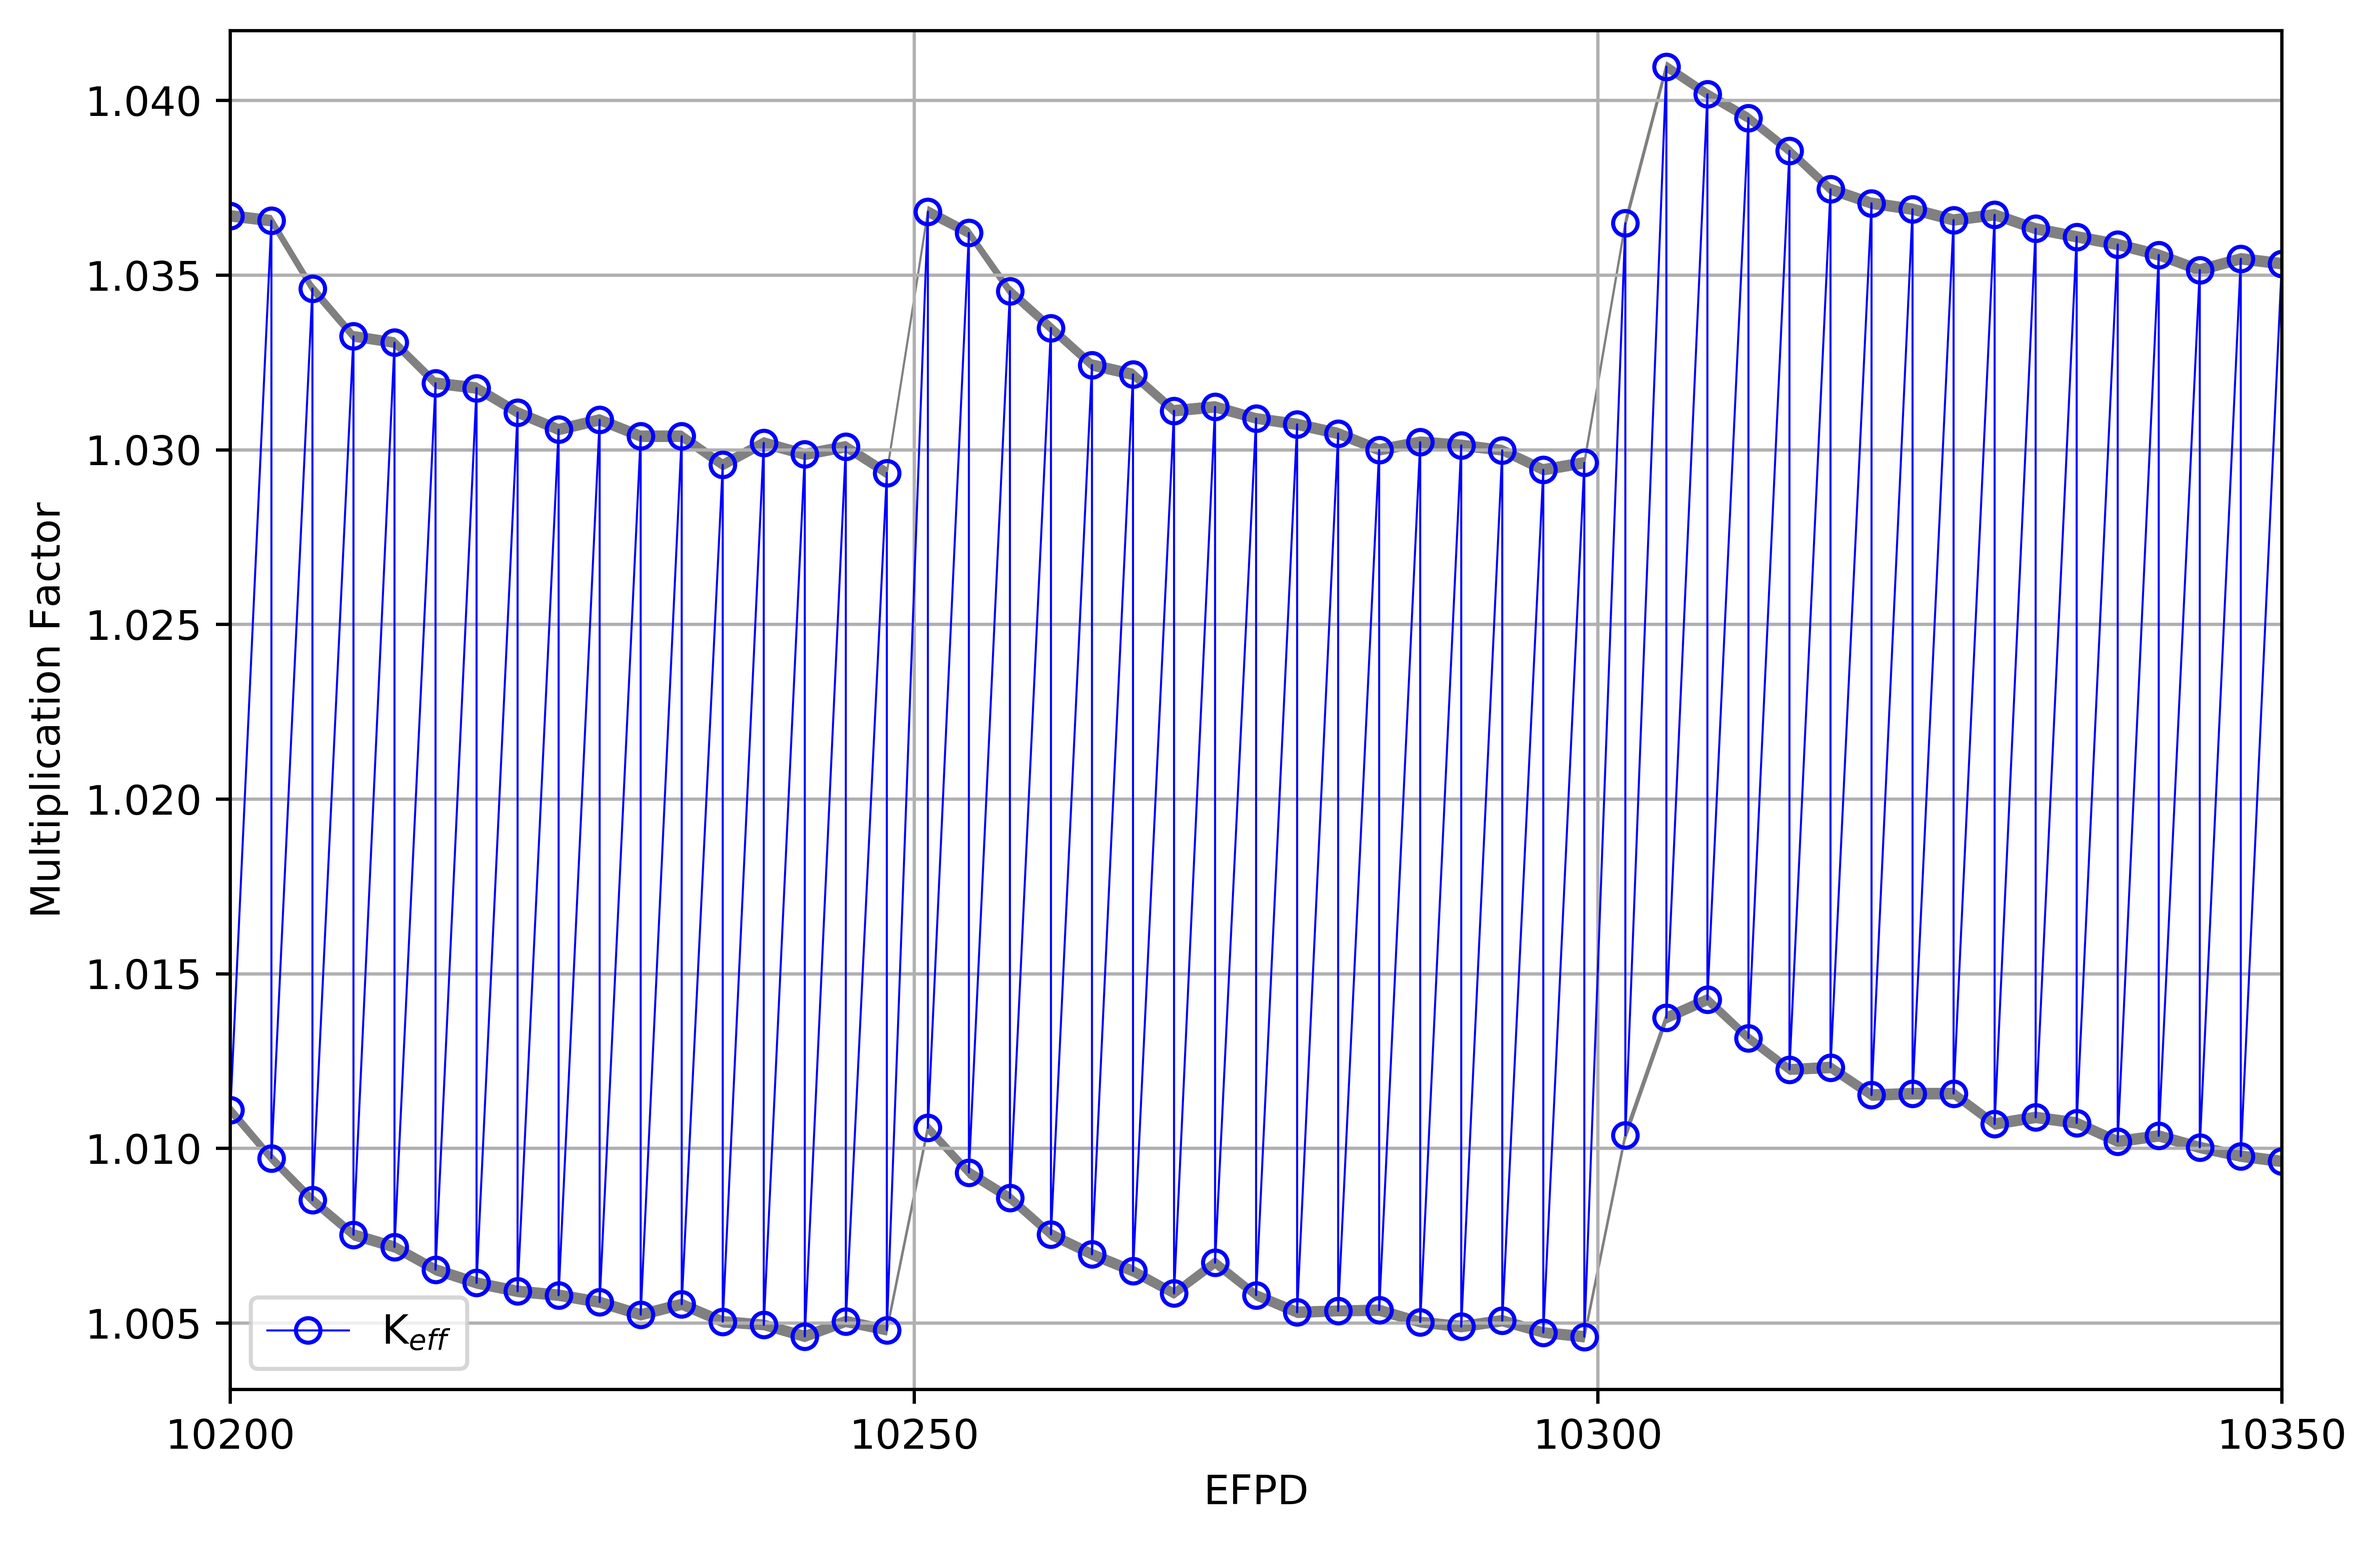
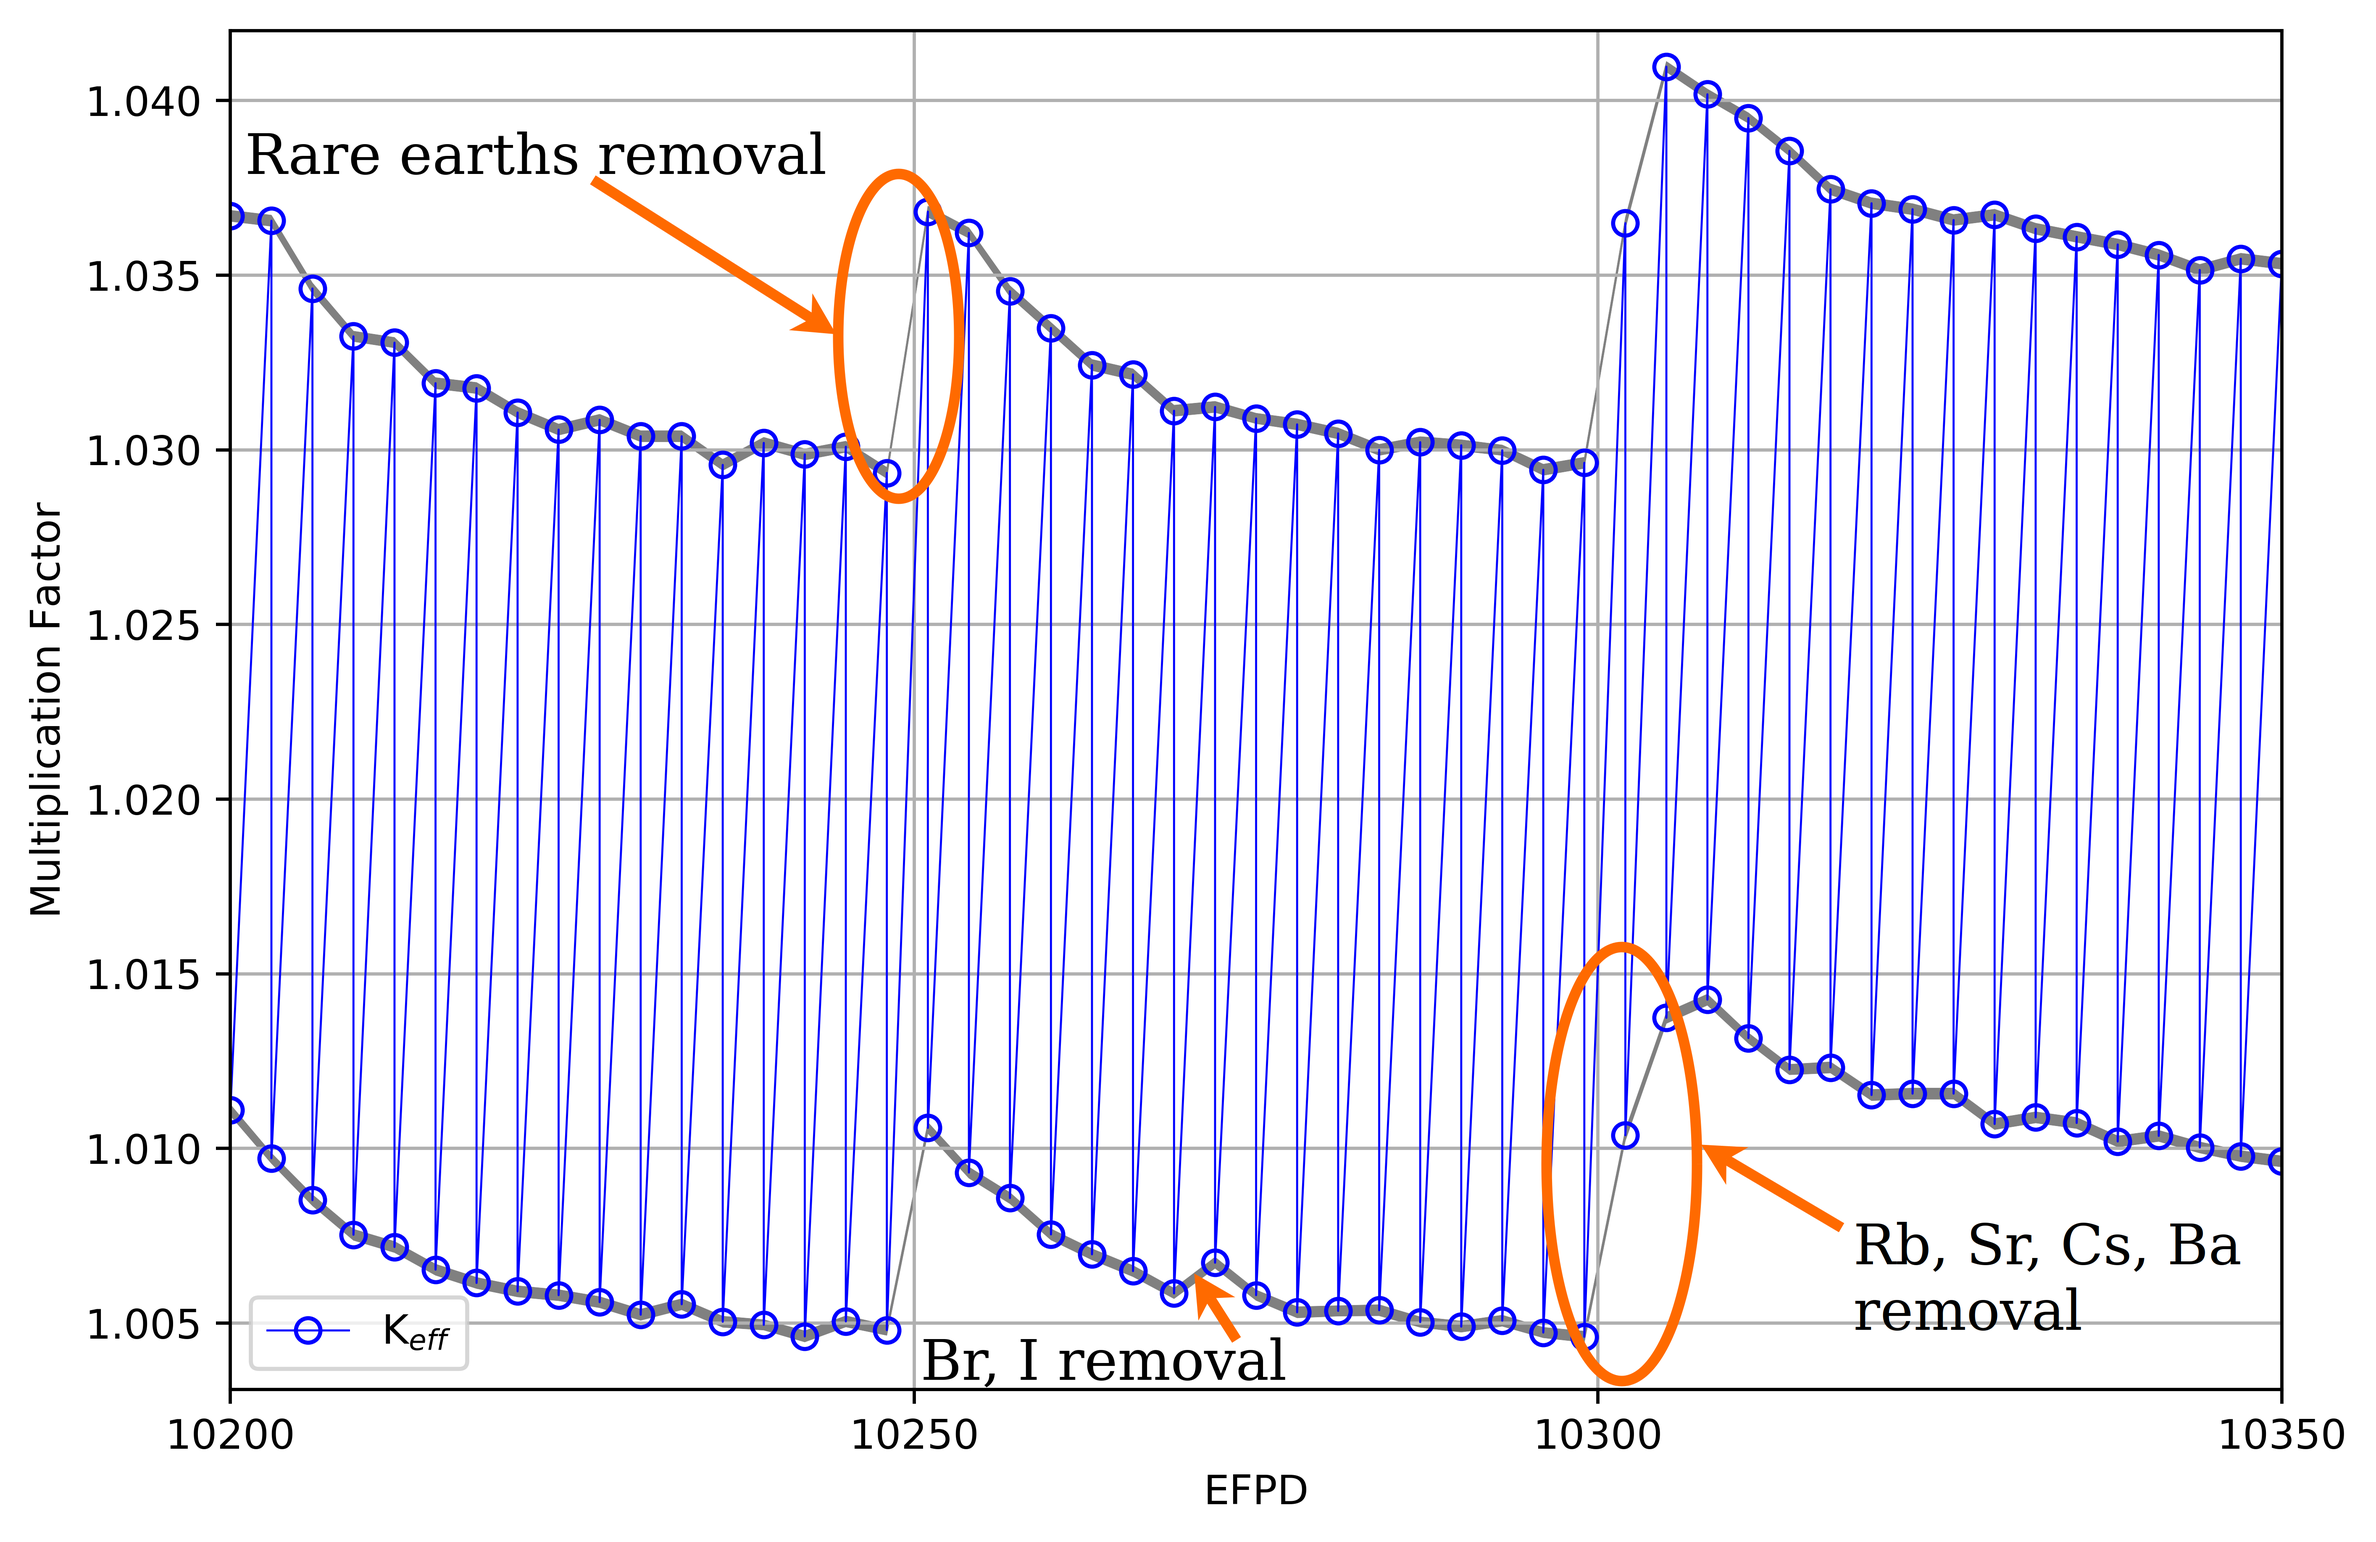
Keff zoomed added in the paper

diff --git a/results.tex b/results.tex
@@ -19,13 +19,14 @@ total computational time for calculating the equilibrium composition was
 approximately 9,900 node-hours (18 core-years.)
 
 \subsection{Effective multiplication factor}
-Figure~\ref{fig:keff} shows the effective multiplication factors 
+Figures~\ref{fig:keff}, \ref{fig:keff_zoomed} show the effective multiplication factors 
 obtained using SaltProc and SERPENT 2. The effective multiplication factors were 
 calculated after removing fission products listed in 
 Table~\ref{tab:reprocessing_list} and adding the fertile material at the end of 
 cycle time (3 days for this work). The effective multiplication 
 factor fluctuates significantly as a result of the batch-wise nature of this 
-online reprocessing strategy. 
+online reprocessing strategy. Figure~\ref{fig:keff_zoomed} shows how different 
+reprocessing groups imposed on effective multiplication factor.
 
 \begin{figure}[ht!] 
   \centering
@@ -33,6 +34,12 @@ online reprocessing strategy.
   \caption{Effective multiplication factor dynamics for full-core \gls{MSBR} 
   model over a 60-year reactor operation lifetime.}
   \label{fig:keff}
+\end{figure}
+\begin{figure}[ht!] 
+  \centering
+  \includegraphics[width=\textwidth]{keff_zoomed.png}
+  \caption{Effective multiplication factor for 150-EFPD time-frame.}
+  \label{fig:keff_zoomed}
 \end{figure}
 
 First, SERPENT calculates the effective multiplication factor for the beginning 
